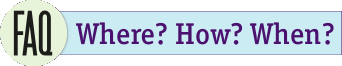
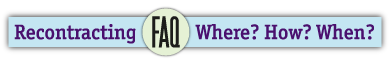
revised header, revised collapsible blocks for a compact mobile view, adjusted student images

diff --git a/index.html b/index.html
@@ -48,8 +48,6 @@
 				<h1><img src="assets/live-on-campus.png" alt="Live On Campus" /></h1>
                 	<div id="subheader">
                         <div id="students"><img src="assets/students.png" alt="Group portrait of UNI Students" /></div>
-                        <div id="mobile-students">
-                        </div>
                         <div id="button" class 25><a href="http://www.google.com"><img src="assets/more-choices-buttons.png" alt="More choices, better choices. Live on campus - 2012-13" /></a></div>
                 
                 	</div>
@@ -57,12 +55,14 @@
 		</header>
 		
         <article id="twoway" class="first">
-        	<section class="wrapper twenty-five recontract-2012">
+        	<section class="wrapper twenty-five recontract-2012 seven-twenty-hide">
             	<h2>Recontracting 2012</h2>
                 <img src="assets/more-choices_better-choices.png" alt="More Choices - Better Choices" />
-                <p>Single Rooms</p>
-                <h3>Double Room</h3>
-                <p>2, 4, 6-person Apartment Suites</p>
+                <p><a href="http://www.google.com">Single Rooms</a>a></p>
+                <h3><a href="http://www.google.com">Double Room</a></h3>
+                <p><a href="http://www.google.com">2, 4, 6-person Apartment Suites</a></p>
+                <p><a href="http://www.google.com">Suites</a></p>
+                <p><a href="http://www.google.com">Meal Plans</a></p>
             </section>
             
             <section class="wrapper fifty important-dates">
@@ -93,23 +93,29 @@
             
             </section>
             
+        	<section class="wrapper twenty-five recontract-2012 seven-twenty-show">
+           	  <h2>Recontracting 2012</h2>
+                <img src="assets/more-choices_better-choices.png" alt="More Choices - Better Choices" />
+                <p><a href="http://www.google.com">Single Rooms</a>a></p>
+                <h3><a href="http://www.google.com">Double Room</a></h3>
+                <p><a href="http://www.google.com">2, 4, 6-person Apartment Suites</a></p>
+                <p><a href="http://www.google.com">Suites</a></p>
+                <p><a href="http://www.google.com">Meal Plans</a></p>
+            </section>
             
             <section class="wrapper twenty-five open-house">
-            	<h2>Open House</h2>
+           	  <h2>Open House</h2>
             	<h3>Friday January 20</h3>
-                <p>Bender, Dancer, Cambell, Lawther<p>
+                <p><a href="http://www.google.com">Bender, Dancer, Cambell, Lawther</a>
+                <p>
                 <p>2-4:30 pm.m</p><br>
-                <p>Roth, Hagemann, Noehren, Rider, Shull</p>
+                <p><a href="http://www.google.com">Roth, Hagemann, Noehren, Rider, Shull</a></p>
                 <p>3-6 p.m.</p>
             </section>
         </article>
         
-        <article id="twoway" class="center">
-        	<section class="wrapper where-how-when">
-            	<a href="http://www.google.com">
-                	<img src="assets/FAQ.png" alt="FAQ: Where? How When - links to Frequently Asked Questions page" />
-                </a>
-        	</section>
+        <article id="twoway" class="faq-button">
+            	<a href="http://www.google.com"><img id="faq-button" src="assets/FAQ-empty.png" alt ="Recontracting FAQ: Where? How? When? - links to Frequently Asked Questions page" /></a>
         </article>
         
 		<article id="twoway">

diff --git a/style.css b/style.css
@@ -5,10 +5,6 @@ body {
     background-repeat: repeat-x;
 }
 
-#students, #mobile-students {
-	display: none;
-}
-
 #students img {
 
 }
@@ -17,6 +13,14 @@ body {
 @media screen and (min-width: 720px) {
 	.twenty-five {
 		width: 25% !important;
+	}
+	
+	.seven-twenty-show {
+		display: none;	
+	}
+	
+	.seven-twenty-hide {
+		display: block;
 	}
 }
 
@@ -27,9 +31,13 @@ body {
 		margin-left: 13px;	
 	}
 	
-	.virtual-tours, .faq, .contract-terms, .contact-us {
+	.virtual-tours, .faq, .contract-terms, .contact-us, .recontract-2012, .open-house {
 		width: 50%;
 		float: left;
+	}
+	
+	.important-dates {
+		clear: both;	
 	}
 	
 	#button {
@@ -39,61 +47,29 @@ body {
 	#button img {
 			
 	}
+	
+	.seven-twenty-show {
+		display: block;	
+	}
+	
+	.seven-twenty-hide {
+		display: none;
+	}
+	
+	h2 {
+		font-size: 1em;	
+	}
 }
 
 @media screen and (min-width: 960px) {
 	header, article, #twoway {
 		width: 960px;	
 	}
-	
-	#students {
-		display: block;
-		float: left;
-		margin-top: -70px;
-		width: 722px;
-	}
-	
-	#students img {
-		position: relative;
-		top: 4px;
-	}
-	
-	#button {
-		display: inline-block;
-		float: right;
-	}
-	
-	#button img {
-		
-	}
-	
-	#subheader {
-		display: inline-block;
-	}
 }
 
 @media screen and (max-width: 960px) {
-	#mobile-students {
-		display: inline-block;
-		float: left;
-		width: 65%;
-	}
-
-	#button {
-		float: right;
-		width: 35%;
-	}
-	
-	#button img {
-		float: right;	
-	}
-	
-	#subheader {
-		display: block;
-	}
-	
 	.first {
-		padding-top: 20px;	
+	
 	}
 }
 
@@ -112,22 +88,34 @@ header {
 	margin-bottom: 2em;
 }
 
-.center {
-	margin-left: auto !important;
-    margin-right: auto !important;
-    position: relative;
-    width: 370px !important;
-}
-
-.center .wrapper {
-	text-align: center;
-    width: auto !important;
-}
-
 .important-dates {
 	background: none repeat scroll 0 0 #E9F5D9;
     border: 2px solid #FFCC00;
+	border-radius: 3px 3px 3px 3px;
+}
+
+#subheader {
 	
+}
+
+#subheader #students {
+	display: inline-block;
+    width: 75%;
+	margin-top: -7%;
+}
+
+#subheader #students img {
+	
+}
+
+#subheader #button {
+	display: inline-block;
+    float: right;
+    width: 25%;
+}
+
+#subheader #button img {
+	float: right;
 }
 
 /*TYPOGRAPHY*/
@@ -155,7 +143,7 @@ h1 {
 }
 
 h2 {
-	font-size: 1.3em;	
+	font-size: 1.2em;	
 }
 
 h3 {
@@ -207,6 +195,15 @@ table .description {
 	
 }
 
-.open-house {
-	
+#faq-button {
+	background-image: url(assets/FAQ.png);
+	background-repeat: no-repeat;
+}
+
+#faq-button:hover {
+	background-image:url(assets/FAQ-hover.png);
+}
+
+.faq-button {
+	text-align: center;
 }
